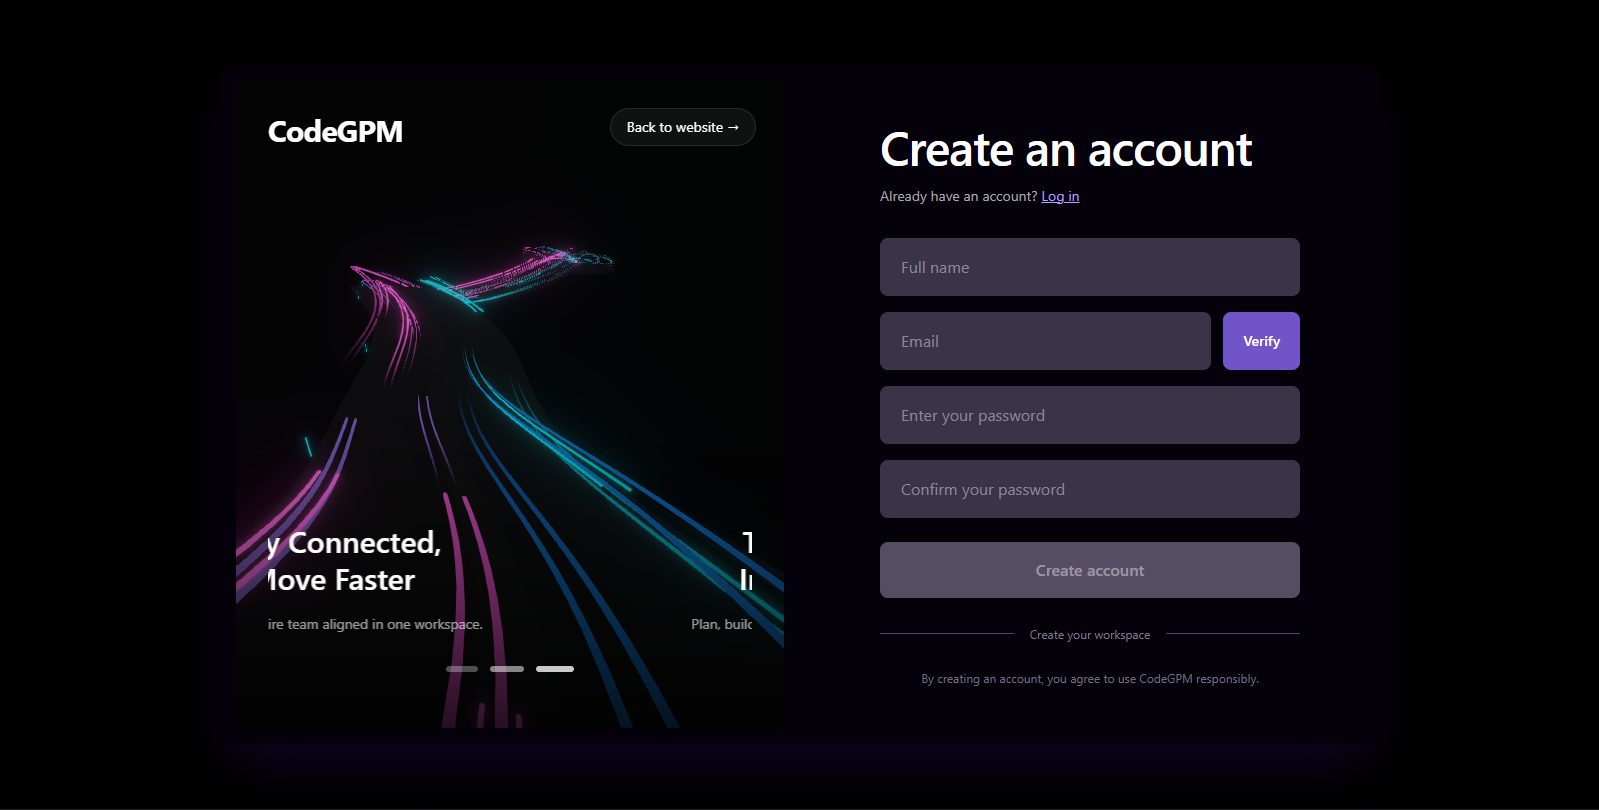
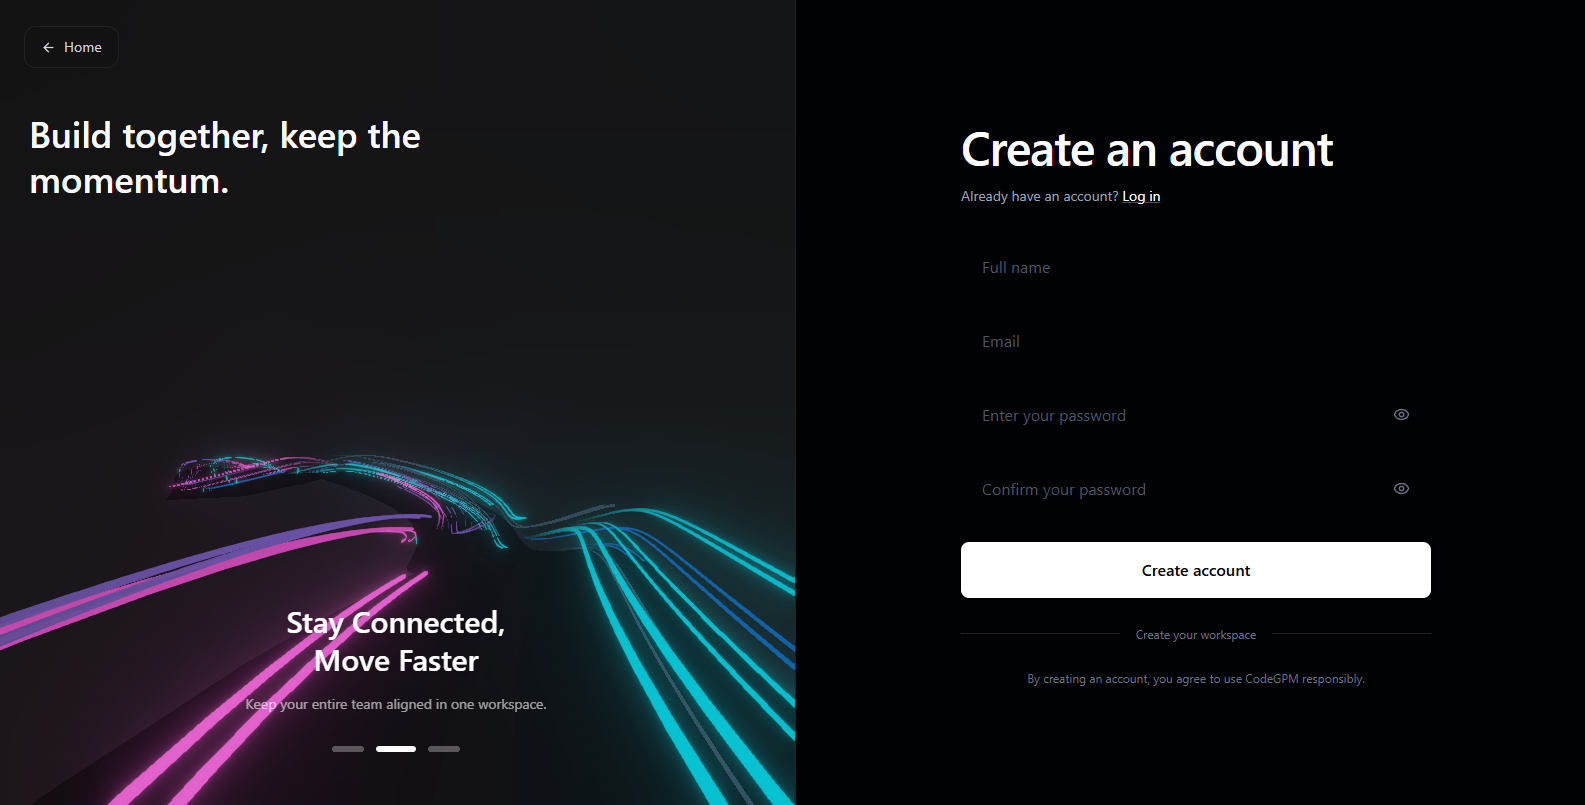
feat: enhance Navbar scroll behavior and update Home page headings for better visibility

diff --git a/Frontend/src/Components/Navbar.jsx b/Frontend/src/Components/Navbar.jsx
@@ -7,12 +7,15 @@ function Navbar() {
 
     const location = useLocation();
     const navigate = useNavigate();
+    const [scrolled, setScrolled] = useState(false);
 
     const sections = useMemo(() => ["home", "about", "guide", "community", "contact"], []);
 
     // Detect currently visible section
     useEffect(() => {
         const handleScroll = () => {
+            setScrolled(window.scrollY > 1);
+
             const scrollPosition = window.scrollY + 200;
 
             let currentSection = "home";
@@ -20,10 +23,7 @@ function Navbar() {
             sections.forEach((section) => {
                 const element = document.getElementById(section);
 
-                if (
-                    element &&
-                    scrollPosition >= element.offsetTop
-                ) {
+                if (element && scrollPosition >= element.offsetTop) {
                     currentSection = section;
                 }
             });
@@ -57,41 +57,54 @@ function Navbar() {
         }
     };
 
-    const navClass = (section) =>
-        `cursor-pointer transition-colors duration-200 ${activeSection === section
-            ? "text-gray-300"
-            : "text-white hover:text-gray-300"
-        }`;
+const navClass = (section) => {
+    if (activeSection === section) {
+        const gradient = scrolled
+            ? "bg-gradient-to-r from-[#7C3AED] to-[#06B6D4]"
+            : "bg-[linear-gradient(180deg,_#a9caff_0%,_#b8cbff_16.667%,_#d3cbff_33.333%,_#f0c8f9_50%,_#ffc5f1_66.667%,_#ffc0ec_83.333%,_#ffbaec_100%)]";
+
+        return `cursor-pointer transition-all duration-300 ${gradient} bg-clip-text text-transparent`;
+    }
+
+    return `cursor-pointer transition-all duration-300 ${
+        scrolled
+            ? "text-white hover:text-gray-600"
+            : "text-black hover:text-gray-300"
+    }`;
+};
 
     return (
         <nav
             className="
                 fixed
-                top-5
+                top-0
                 left-1/2
                 -translate-x-1/2
+                w-full
                 z-50
-                w-[95%]
-                max-w-7xl
+                transition-all
+                duration-300
             "
         >
             <div
-                className="
-                    flex
-                    items-center
-                    justify-between
-                    px-8
-                    py-4
-                    rounded-3xl
-                    border border-[#222]
-                    bg-[#121212]
-                    shadow-[0_16px_50px_rgba(0,0,0,0.35)]
-                "
-            >
+                className={`
+                    flex items-center justify-between h-18
+                    px-8 py-4
+                    transition-all duration-500
+
+                ${scrolled ? "bg-[#212121] backdrop-blur-xl shadow-lg" : "bg-transparent"}`}>
 
                 {/* Logo */}
-                <Link to="/">
-                    <Logo className="w-11 h-11 text-white" />
+                <Link className={`flex justify-center items-center transition-all duration-300
+
+                    ${scrolled ? "text-white" : "text-black"}`}
+
+                    to="/">
+
+                    <Logo className="w-9 h-9" />
+                    <p className="text-xl">
+                        CodeGPM
+                    </p>
                 </Link>
 
                 {/* Navigation */}
@@ -139,7 +152,7 @@ function Navbar() {
                     <button
                         className="
                             px-6 py-3
-                            rounded-2xl
+                            rounded-full
                             bg-white
                             text-black
                             font-semibold

diff --git a/Frontend/src/Pages/Home.jsx b/Frontend/src/Pages/Home.jsx
@@ -201,7 +201,7 @@ function Home() {
 
                     <div className="text-center mb-10">
 
-                        <h2 className="text-4xl md:text-5xl font-bold text-white mb-2">
+                        <h2 className="text-4xl md:text-6xl font-bold text-white mb-2">
                             Everything your team needs
                             <br />
                             is one workspace
@@ -267,7 +267,7 @@ function Home() {
                     {/* Heading */}
                     <div className="text-center mb-24">
 
-                        <h2 className="text-4xl md:text-5xl font-bold text-white">
+                        <h2 className="text-4xl md:text-6xl font-bold text-white">
                             Get started and collaborate in minutes
                         </h2>
                     </div>
@@ -296,8 +296,8 @@ function Home() {
                             className="
                                 relative z-10
                                 w-full
-                                rounded-2xl
-                                border border-transparent"
+                                rounded-lg
+                                border border-white"
                         />
                     </div>
 
@@ -312,8 +312,8 @@ function Home() {
                             className="
                         relative z-10
                         w-full
-                        rounded-2xl
-                        border border-transparent
+                        rounded-lg
+                        border border-white
                     "
                         />
 
@@ -363,8 +363,8 @@ function Home() {
                             className="
                         relative z-10
                         w-full
-                        rounded-2xl
-                        border border-transparent
+                        rounded-lg
+                        border border-white
                         shadow-2xl
                     "
                         />
@@ -384,7 +384,7 @@ function Home() {
                     {/* Heading */}
                     <div className="text-center mb-20">
 
-                        <h2 className="text-4xl md:text-5xl font-bold text-white mb-5">
+                        <h2 className="text-4xl md:text-6xl font-bold text-white mb-5">
                             Built by students, for students.
                         </h2>
 
